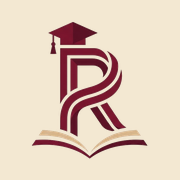
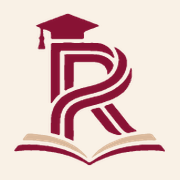
brand: شعار رحيق الرسمي متجهًا في الهيدر والفوتر والأيقونات
- تحويل الشعار (R + قبعة التخرج + الكتاب) إلى SVG متجه من نسختين: ملوّن وأبيض
- الهيدر: الشعار الأبيض بدون إطار ذهبي بجانب نص «رحيق RAHEEQ»
- الفوتر وصفحات الدخول والتسجيل وبانر مجلس الصوت على النسخة المناسبة لكل خلفية
- أيقونات PWA/Favicon/Apple Touch مع نسخ maskable وإعادة توليدها من المتجه
- تحديث README ودليل الهوية والاختبارات

Changed region(s): [[0.0833, 0.0556, 0.9167, 0.9167]]

diff --git a/index.html b/index.html
@@ -7,10 +7,10 @@
 <meta name="description" content="رحيق RAHEEQ — منصة تسجيل ولي الأمر. سجّل ابنك في ثلاث خطوات بسيطة وآمنة، وتابع طلبك بكل سهولة.">
 <title>رحيق RAHEEQ | تسجيل ولي الأمر</title>
 <link rel="icon" href="assets/brand/favicon-32.png" type="image/png" sizes="32x32">
-<link rel="icon" href="assets/brand/raheeq-mark.svg" type="image/svg+xml">
+<link rel="icon" href="assets/brand/raheeq-mark-vector.svg" type="image/svg+xml">
 <link rel="apple-touch-icon" href="assets/brand/raheeq-apple-touch.png">
 <link rel="manifest" href="raheeq.webmanifest">
-<link rel="preload" as="image" href="assets/brand/raheeq-mark.svg">
+<link rel="preload" as="image" href="assets/brand/raheeq-mark-vector-white.svg" type="image/svg+xml">
 <link rel="preconnect" href="https://fonts.googleapis.com">
 <link rel="preconnect" href="https://fonts.gstatic.com" crossorigin>
 <link href="https://fonts.googleapis.com/css2?family=Cairo:wght@400;600;700;800;900&display=swap" rel="stylesheet">
@@ -29,7 +29,8 @@
 <header class="site-header" id="siteHeader">
   <div class="container header-row">
     <a class="logo" href="#top" aria-label="رحيق RAHEEQ — الصفحة الرئيسية">
-      <img class="logo-mark" src="assets/brand/raheeq-mark.svg" alt="" width="54" height="54">
+      <img class="logo-mark" src="assets/brand/raheeq-mark-vector-white.svg"
+           alt="شعار رحيق: حرف R بقبعة تخرج وكتاب مفتوح" width="46" height="55" fetchpriority="high">
       <span class="logo-text"><strong>رحيق</strong><span>RAHEEQ</span></span>
     </a>
     <nav class="header-nav" aria-label="روابط سريعة">
@@ -392,7 +393,7 @@
 <footer class="site-footer" id="footer">
   <div class="container footer-inner">
     <div class="footer-brand">
-      <img class="logo-mark" src="assets/brand/raheeq-mark.svg" alt="" width="56" height="56">
+      <img class="logo-mark" src="assets/brand/raheeq-mark-white.png" alt="شعار رحيق" width="50" height="60" loading="lazy">
       <span class="logo-text"><strong>رحيق</strong><span>RAHEEQ</span></span>
     </div>
     <p class="footer-values">ثقة • نمو • رعاية • تميز</p>

diff --git a/css/raheeq.css b/css/raheeq.css
@@ -71,13 +71,14 @@ button{cursor:pointer}
 }
 .site-header.is-scrolled{box-shadow:0 10px 30px rgba(41,6,17,.36)}
 .header-row{display:flex;align-items:center;justify-content:space-between;gap:16px;min-height:82px}
-.logo{display:flex;align-items:center;gap:11px;flex:none}
+.logo{display:flex;align-items:center;gap:12px;flex:none}
+/* الشعار الرسمي: نسخة بيضاء مقصوصة على البرغندي (بدون إطار) — مصدره assets/brand/raheeq-mark-vector-white.svg */
 .logo-mark{
-  width:54px;height:54px;object-fit:contain;
-  border:2px solid var(--gold);border-radius:16px;
-  background:var(--white);padding:3px;
-  box-shadow:0 5px 16px rgba(0,0,0,.22);
+  width:46px;height:55px;object-fit:contain;flex:none;
+  filter:drop-shadow(0 3px 8px rgba(0,0,0,.35));
+  transition:transform .25s ease;
 }
+.logo:hover .logo-mark,.logo:focus-visible .logo-mark{transform:translateY(-1px) scale(1.04)}
 .logo-text{display:flex;flex-direction:column;line-height:1.1;color:var(--white)}
 .logo-text strong{font-size:26px;font-weight:900;letter-spacing:.5px}
 .logo-text span{font-size:12px;font-weight:800;letter-spacing:5px;color:var(--gold-light);margin-top:3px}
@@ -349,6 +350,7 @@ button{cursor:pointer}
 .site-footer{background:var(--maroon-dark);color:#F7EAD5;border-top:3px solid var(--gold);padding:34px 0 28px}
 .footer-inner{display:flex;flex-direction:column;align-items:center;gap:10px;text-align:center}
 .footer-brand{display:flex;align-items:center;gap:12px}
+.footer-brand .logo-mark{width:50px;height:60px}
 .footer-values{color:var(--gold-light);font-weight:800;font-size:14px;margin:6px 0 0;letter-spacing:1px}
 .footer-line{font-size:13.5px;font-weight:700;margin:2px 0 0;color:#E9DBC4}
 .footer-line a{color:var(--gold-light);text-decoration:underline;text-underline-offset:3px}
@@ -405,7 +407,7 @@ body.modal-open{overflow:hidden}
 @media (max-width:620px){
   .container{width:min(100% - 24px,1180px)}
   .header-row{min-height:70px;gap:8px}
-  .logo-mark{width:44px;height:44px;border-radius:13px}
+  .logo-mark{width:37px;height:44px}
   .logo-text strong{font-size:20px}
   .logo-text span{font-size:10px;letter-spacing:3px}
   .sound-btn{width:40px;height:40px;font-size:18px;border-radius:12px}

diff --git a/majlis.html b/majlis.html
@@ -110,7 +110,7 @@
   </section>
 
   <section class="card raheeq-banner">
-    <img src="assets/brand/raheeq-logo.png" alt="شعار أكاديمية رحيق" width="83" height="97" style="object-fit:contain;border:2px solid #C9A86A;border-radius:12px;margin-bottom:12px">
+    <img src="assets/brand/raheeq-mark-white.png" alt="شعار أكاديمية رحيق" width="72" height="85" style="object-fit:contain;margin-bottom:12px;filter:drop-shadow(0 6px 16px rgba(192,138,62,.28))">
     <h2>أكاديمية <span>رحيق</span></h2>
     <p class="hint">منصة تسجيل الدخول لأكاديمية رحيق — سجّل دخولك لمتابعة دروسك ومحتواك التعليمي، وتابعنا على منصات التواصل لتصلك آخر المستجدات.</p>
     <div class="raheeq-cta">

diff --git a/register.html b/register.html
@@ -34,7 +34,7 @@
 
 <div class="auth-wrap">
   <div class="auth-panel">
-    <a href="index.html" class="brand"><img class="raheeq-brand-mark" src="assets/brand/raheeq-logo.png" alt="" width="50" height="58"><span class="kufi">أكاديمية رحيق</span></a>
+    <a href="index.html" class="brand"><img class="raheeq-brand-mark" src="assets/brand/raheeq-mark-white.png" alt="شعار رحيق" width="42" height="50"><span class="kufi">أكاديمية رحيق</span></a>
     <div class="auth-quote">
       <p class="big">"انضم إلى مجتمع المتعلمين في أكاديمية رحيق، وابدأ رحلتك التعليمية اليوم."</p>
       <p class="by">— فريق أكاديمية رحيق</p>

diff --git a/login.html b/login.html
@@ -34,7 +34,7 @@
 
 <div class="auth-wrap">
   <div class="auth-panel">
-    <a href="index.html" class="brand"><img class="raheeq-brand-mark" src="assets/brand/raheeq-logo.png" alt="" width="50" height="58"><span class="kufi">أكاديمية رحيق</span></a>
+    <a href="index.html" class="brand"><img class="raheeq-brand-mark" src="assets/brand/raheeq-mark-white.png" alt="شعار رحيق" width="42" height="50"><span class="kufi">أكاديمية رحيق</span></a>
     <div class="auth-quote">
       <p class="big">"رحيق العلم لا ينضب، وكل خطوة في التعلّم رحلة تستحق أن تُروى."</p>
       <p class="by">— من فلسفة أكاديمية رحيق</p>

diff --git a/sw.js b/sw.js
@@ -1,5 +1,5 @@
 /* غلاف التطبيق فقط. الشبكة أولًا حتى لا يعلق صوت أو صفحة على نسخة قديمة. */
-const CACHE = 'majlis-shell-v4-raheeq-root';
+const CACHE = 'majlis-shell-v5-raheeq-logo';
 const SHELL = [
   './',
   './majlis.html',
@@ -11,7 +11,8 @@ const SHELL = [
   './manifest.webmanifest',
   './icons/icon-192.png',
   './icons/icon-512.png',
-  './assets/brand/raheeq-logo.png',
+  './assets/brand/raheeq-mark-vector.svg',
+  './assets/brand/raheeq-mark-white.png',
   './assets/brand/raheeq-icon-192.png'
 ];
 

diff --git a/style.css b/style.css
@@ -772,4 +772,4 @@ button, input, select, textarea{ font-family: inherit; }
 .text-center{ text-align: center; }
 
 /* شعار رحيق المقدم من الأكاديمية */
-.raheeq-brand-mark{width:50px;height:58px;object-fit:contain;border:2px solid #C9A86A;border-radius:12px;background:linear-gradient(160deg,#FFFDF7,#F6EBD6);flex:none;box-shadow:0 6px 16px rgba(136,18,52,.18)}
+.raheeq-brand-mark{width:42px;height:50px;object-fit:contain;flex:none;filter:drop-shadow(0 6px 16px rgba(0,0,0,.35))}

diff --git a/README.md b/README.md
@@ -147,6 +147,8 @@ data/                                 (مستثنى من Git — بيانات ش
 
 | الملف | الاستخدام |
 |---|---|
+| `assets/brand/raheeq-mark-vector.svg` | الشعار المتجه (SVG) — النسخة الأساسية المستخدمة في الموقع والفافيكون |
+| `assets/brand/raheeq-mark-vector-white.svg` | الشعار المتجه باللون الأبيض — لوجو الهيدر على الخلفية البرغندية |
 | `assets/brand/raheeq-logo.png` | الشعار الأساسي بخلفية شفافة (R + قبعة التخرج + الكتاب) |
 | `assets/brand/raheeq-lockup.png` | الشعار الأفقي مع «رحيق RAHEEQ» |
 | `assets/brand/raheeq-logo-white.png` / `-black.png` | نسختا اللون الواحد للخلفيات الداكنة/الفاتحة |
